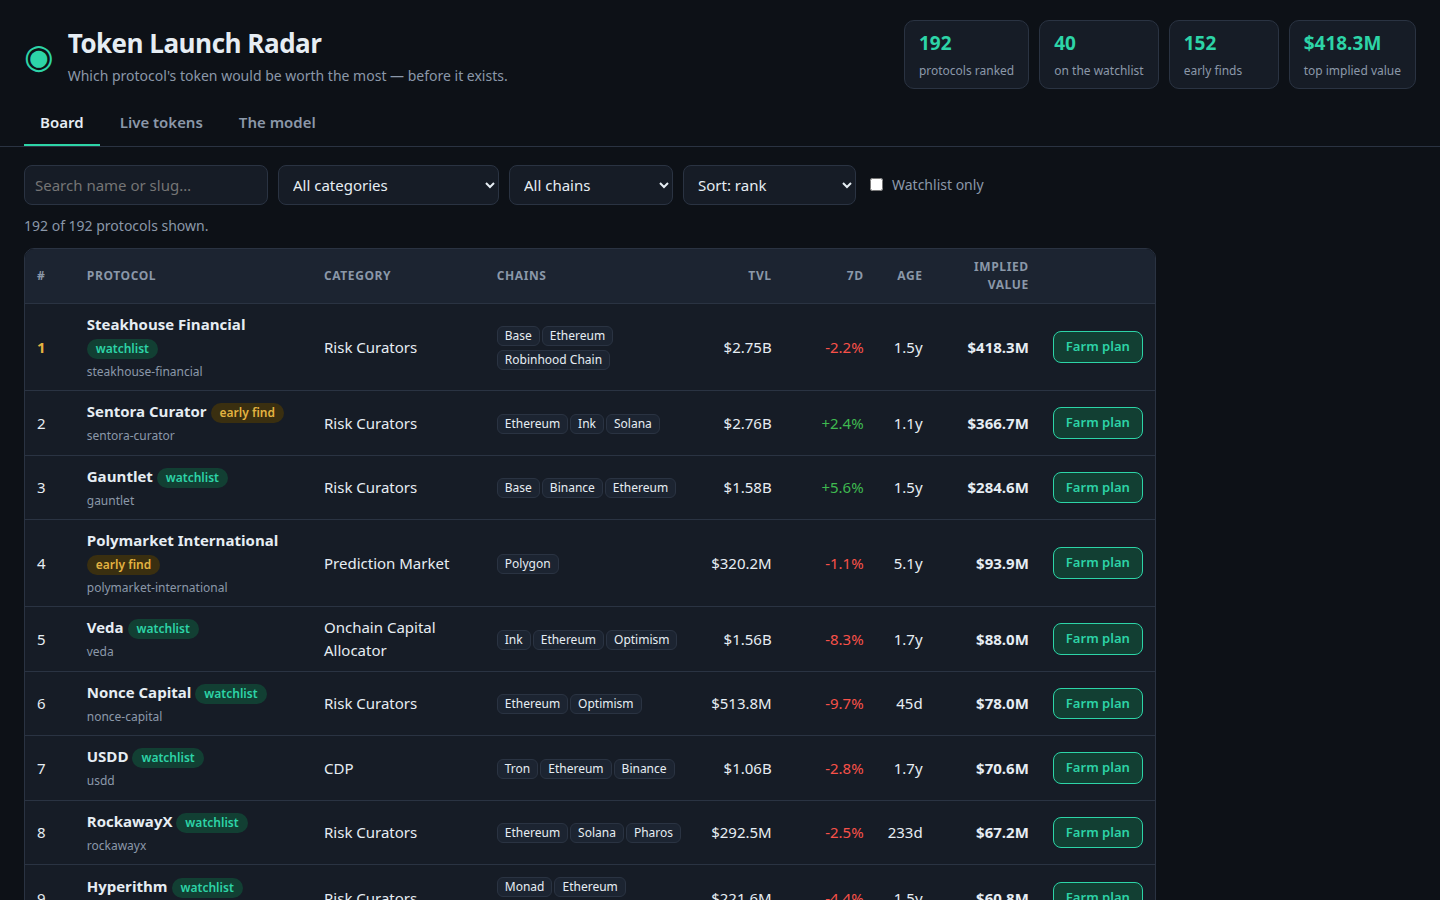
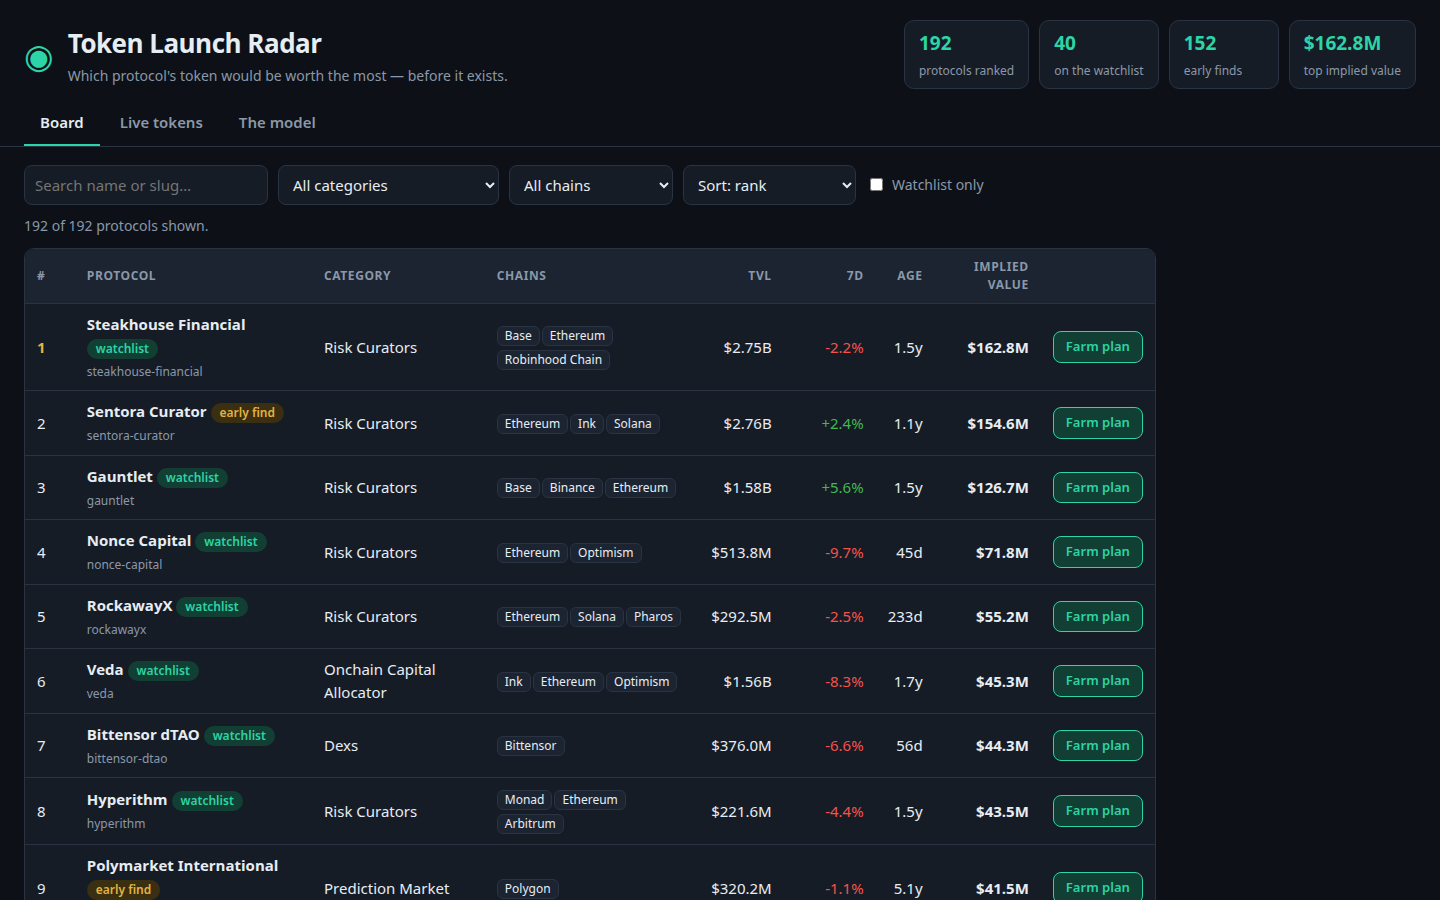
screenshots: retake board, detail, filtered from v4 dashboard output (all under 512 KiB)

diff --git a/README.md b/README.md
@@ -52,6 +52,8 @@ with growth as a small stated nudge is the one shipped.
   (was #45), just outside the top 40.
 - Rows 192 (40 watchlist, 16 early-above, 136 early-below), farm steps all
   20–600 chars, deterministic: two runs byte-identical.
+- Screenshots: 1-board 167,443 B, 2-detail 267,562 B, 3-filtered 162,921 B
+  (all 1440×900, under the 512 KiB cap); dossier 826,411 B.
 
 ## Repo
 
